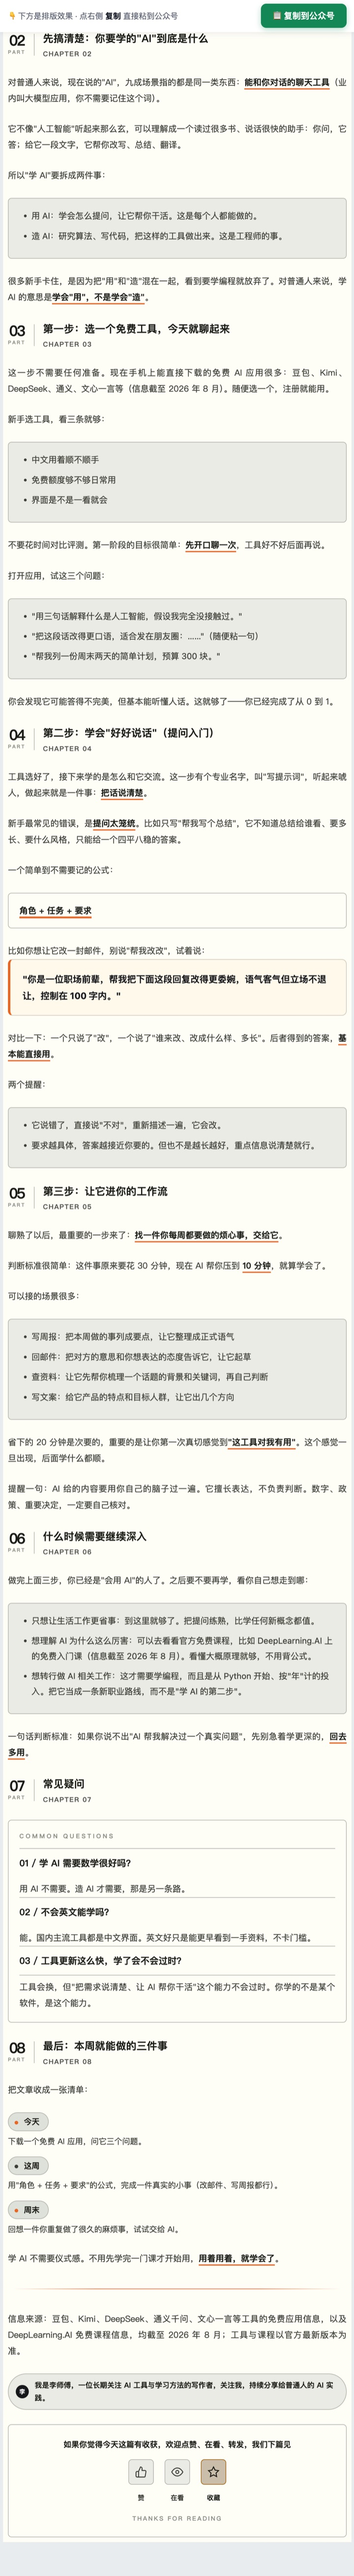
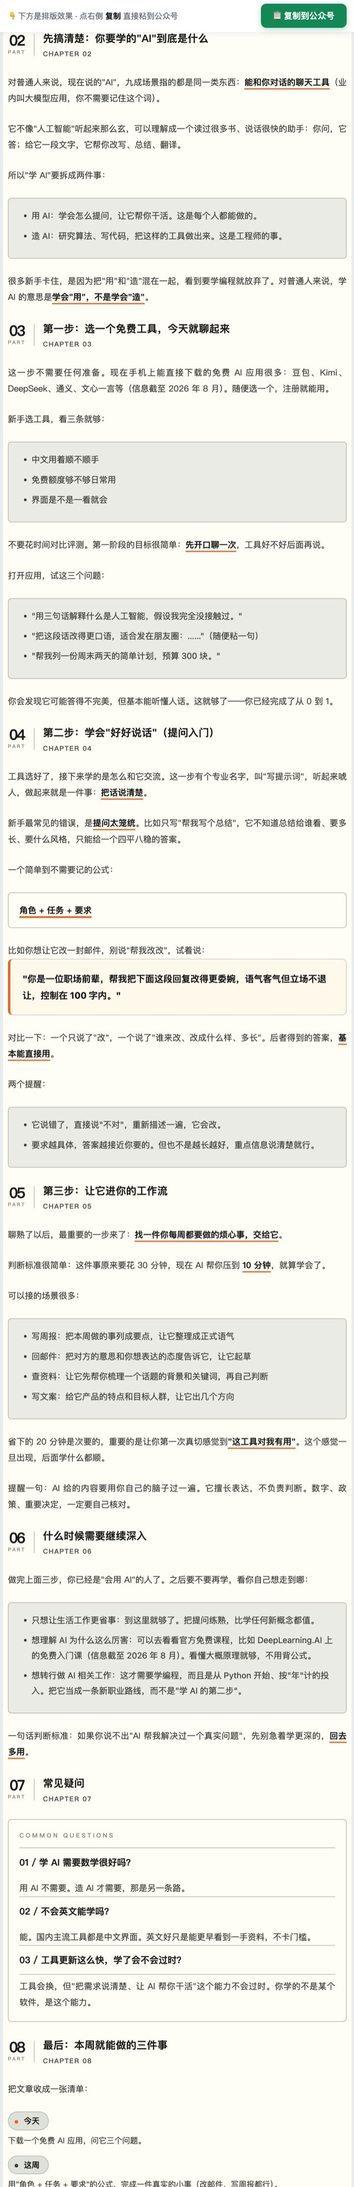
docs: align README long showcase images

diff --git a/tests/test_regressions.py b/tests/test_regressions.py
@@ -1604,6 +1604,18 @@ class ReadmeDocumentationTests(unittest.TestCase):
         for path in set(paths):
             self.assertTrue((ROOT / path).is_file(), path)
 
+    def test_readme_long_showcase_images_share_top_aligned_crop_size(self):
+        try:
+            from PIL import Image
+        except ImportError as exc:
+            self.skipTest("Pillow unavailable: %s" % exc)
+        sizes = {}
+        for path in sorted((ROOT / "assets/readme-showcase").glob("*-long.jpg")):
+            with Image.open(path) as image:
+                sizes[path.name] = image.size
+        self.assertEqual(len(sizes), 3)
+        self.assertEqual(len(set(sizes.values())), 1, sizes)
+
     def test_readme_documents_adaptive_innovation_and_human_writing_inspiration(self):
         text = (ROOT / "README.md").read_text(encoding="utf-8")
         for phrase in ("最低必要创新", "读者任务", "点击契约", "说话位置"):

diff --git a/README.md b/README.md
@@ -320,21 +320,21 @@ assets/gzh-design/references/
 
 ## 排版效果展示
 
-以下展示来自真实公众号排版预览。先看三个主题的完整长图，再看每个主题的局部细节。
+以下展示来自真实公众号排版预览。先看三个主题的顶部对齐长图，再看每个主题的局部细节。
 
 <table>
   <tr>
-    <td align="center" width="33%">
-      <a href="./assets/readme-showcase/red-white-long.jpg"><img src="./assets/readme-showcase/red-white-long.jpg" alt="红白色系完整长图预览" width="220"></a><br>
-      <sub>红白色系 · 完整长图</sub>
+    <td align="center" valign="top" width="33%">
+      <a href="./assets/readme-showcase/red-white-long.jpg"><img src="./assets/readme-showcase/red-white-long.jpg" alt="红白色系长图预览" width="220"></a><br>
+      <sub>红白色系 · 长图预览</sub>
     </td>
-    <td align="center" width="33%">
-      <a href="./assets/readme-showcase/moyu-green-long.jpg"><img src="./assets/readme-showcase/moyu-green-long.jpg" alt="摸鱼绿完整长图预览" width="220"></a><br>
-      <sub>摸鱼绿 · 完整长图</sub>
+    <td align="center" valign="top" width="33%">
+      <a href="./assets/readme-showcase/moyu-green-long.jpg"><img src="./assets/readme-showcase/moyu-green-long.jpg" alt="摸鱼绿长图预览" width="220"></a><br>
+      <sub>摸鱼绿 · 长图预览</sub>
     </td>
-    <td align="center" width="33%">
-      <a href="./assets/readme-showcase/olive-journal-long.jpg"><img src="./assets/readme-showcase/olive-journal-long.jpg" alt="橄榄手记完整长图预览" width="220"></a><br>
-      <sub>橄榄手记 · 完整长图</sub>
+    <td align="center" valign="top" width="33%">
+      <a href="./assets/readme-showcase/olive-journal-long.jpg"><img src="./assets/readme-showcase/olive-journal-long.jpg" alt="橄榄手记长图预览" width="220"></a><br>
+      <sub>橄榄手记 · 长图预览</sub>
     </td>
   </tr>
 </table>
